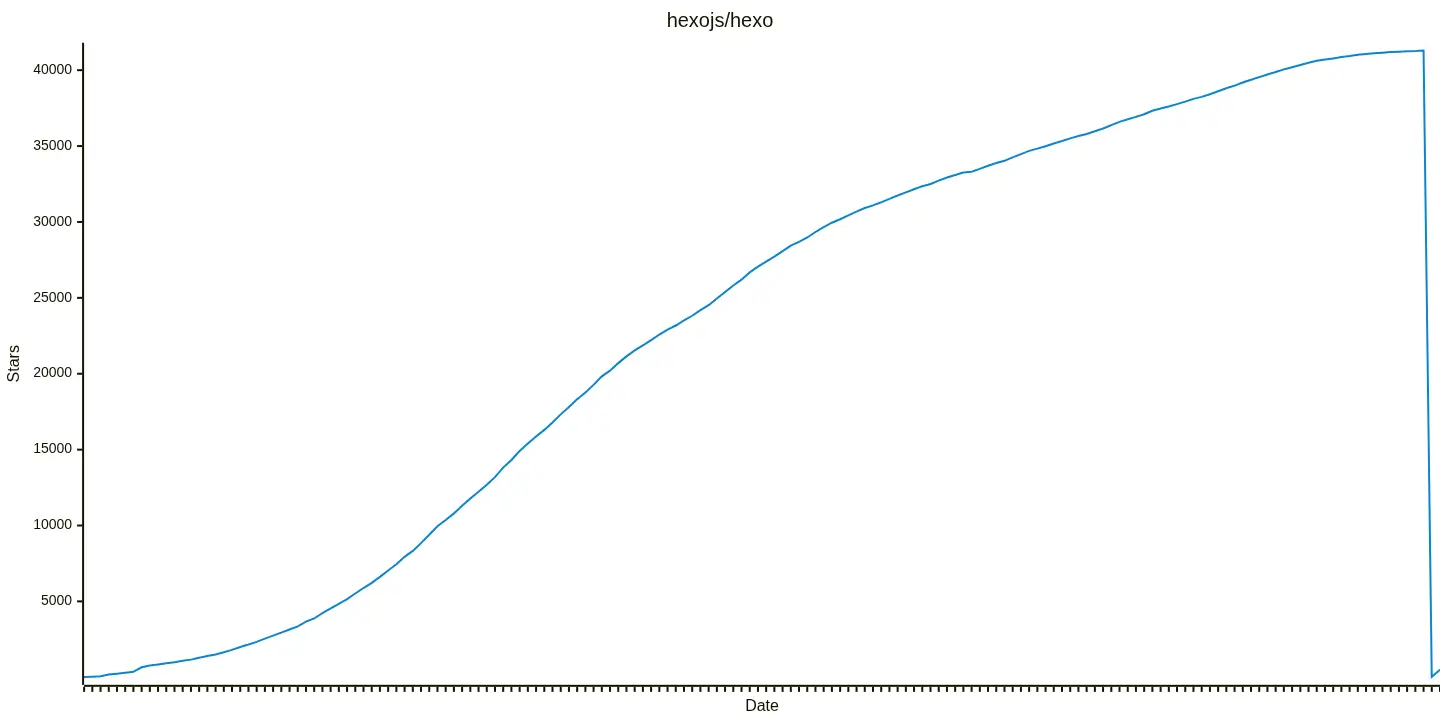
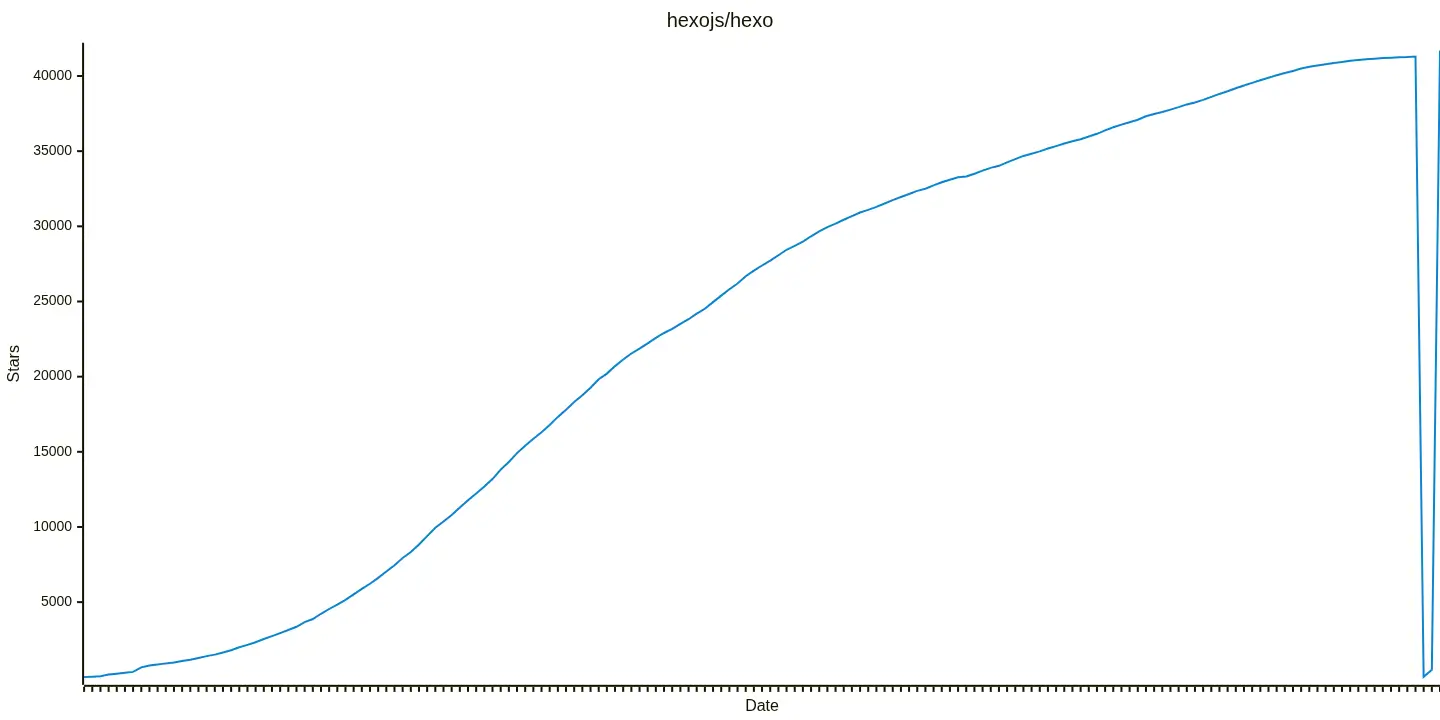
update about restorations

diff --git a/source/_posts/2026-05-08-hexo-lost-41k-github-stars-with-one-command.md b/source/_posts/2026-05-08-hexo-lost-41k-github-stars-with-one-command.md
@@ -9,6 +9,10 @@ Because of this mistake, the [hexojs/hexo][hexorepo] repository in GitHub lost a
 
 The repository was changed back to public about 3 hours later, but the stars, forks, and watchers won't be restored.
 
+> **On May 14**, the stars and watchers of the repository have been **restored successfully** with the help of Github support.
+>
+> A heartfelt thank you to everyone! Thank everyone who offered help and encouragement in the [discussions][hexo5775], everyone who has continued to support Hexo, and the GitHub Support team for their assistance.
+
 {% asset_img star-history.webp %}
 
 ## About Hexo
@@ -101,6 +105,7 @@ In general, before doing any dangerous operation, we should always check careful
 [archive]: https://web.archive.org/web/20260406140512/https://github.com/hexojs/hexo
 [githubcli]: https://cli.github.com/manual/gh
 [githubdoc]: https://docs.github.com/en/repositories/managing-your-repositorys-settings-and-features/managing-repository-settings/setting-repository-visibility#changing-from-public-to-private
+[hexo5775]: https://github.com/orgs/hexojs/discussions/5775
 [hexoio]: https://hexo.io/
 [hexojs]: https://github.com/hexojs
 [hexopkg]: https://www.npmjs.com/package/hexo